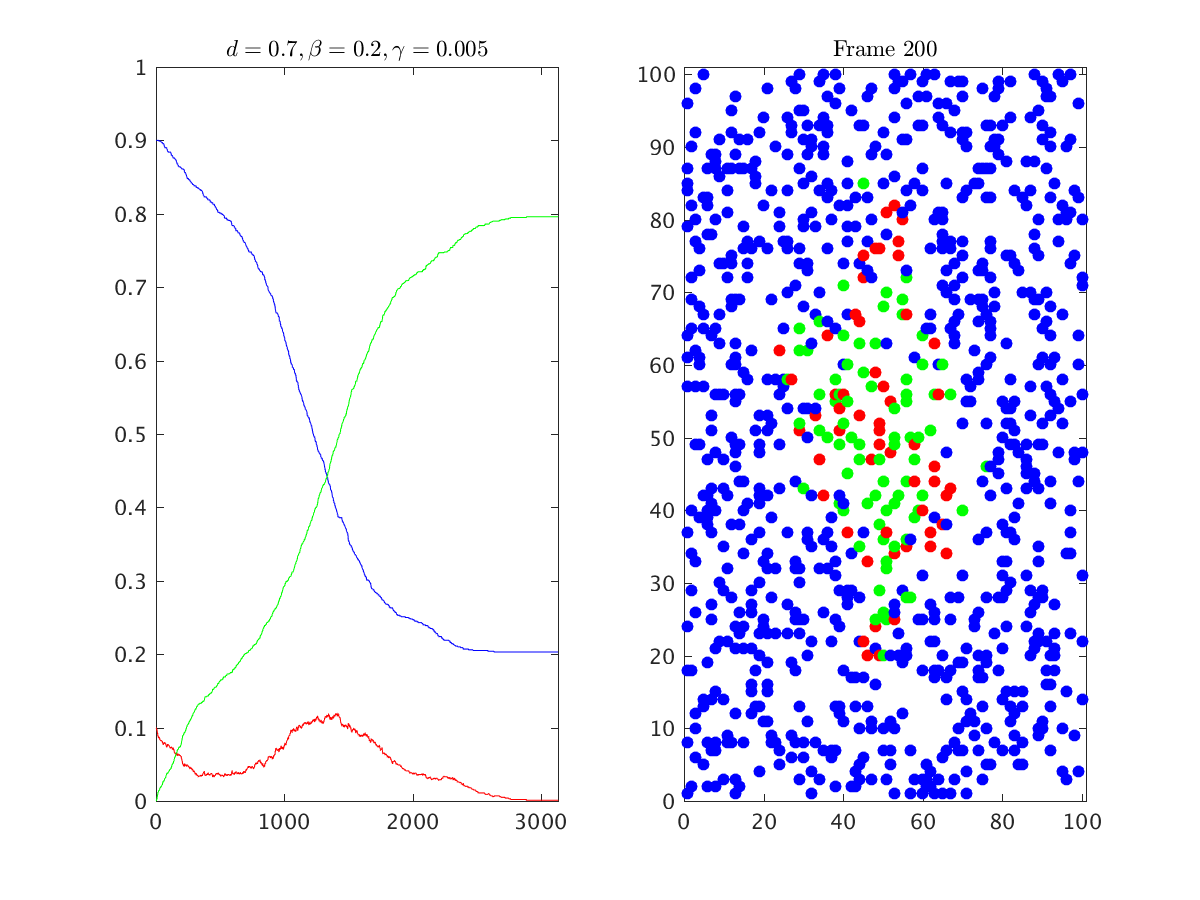
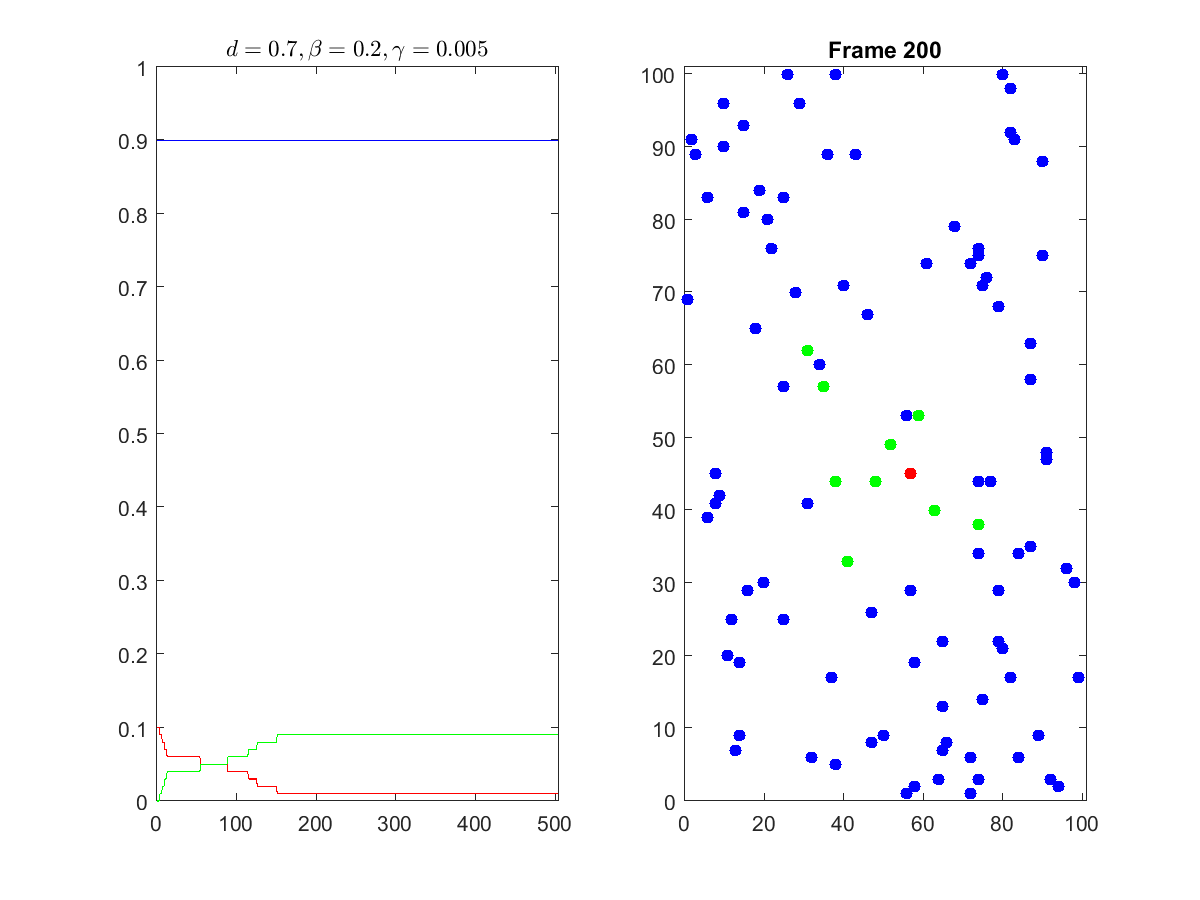
bla

diff --git a/t2a.m b/t2a.m
@@ -3,16 +3,16 @@ clc
 clf
 
 
-nAgents = 100;
+nAgents = 1000;
 gridSize = 100;
 
 moveProb = 0.7;
-infectProb = 0.2;
-recoverProb = 0.005;
+infectProb = 0.4;
+recoverProb = 0.01;
 initInfected = 0.1;
 
 saveFrame = 200;
-maxSteps = 5000;
+maxSteps = 50000;
 
 agentStatus = zeros(nAgents,3); % Holds x,y and susceptible/infected/resistant status for each agent
 
